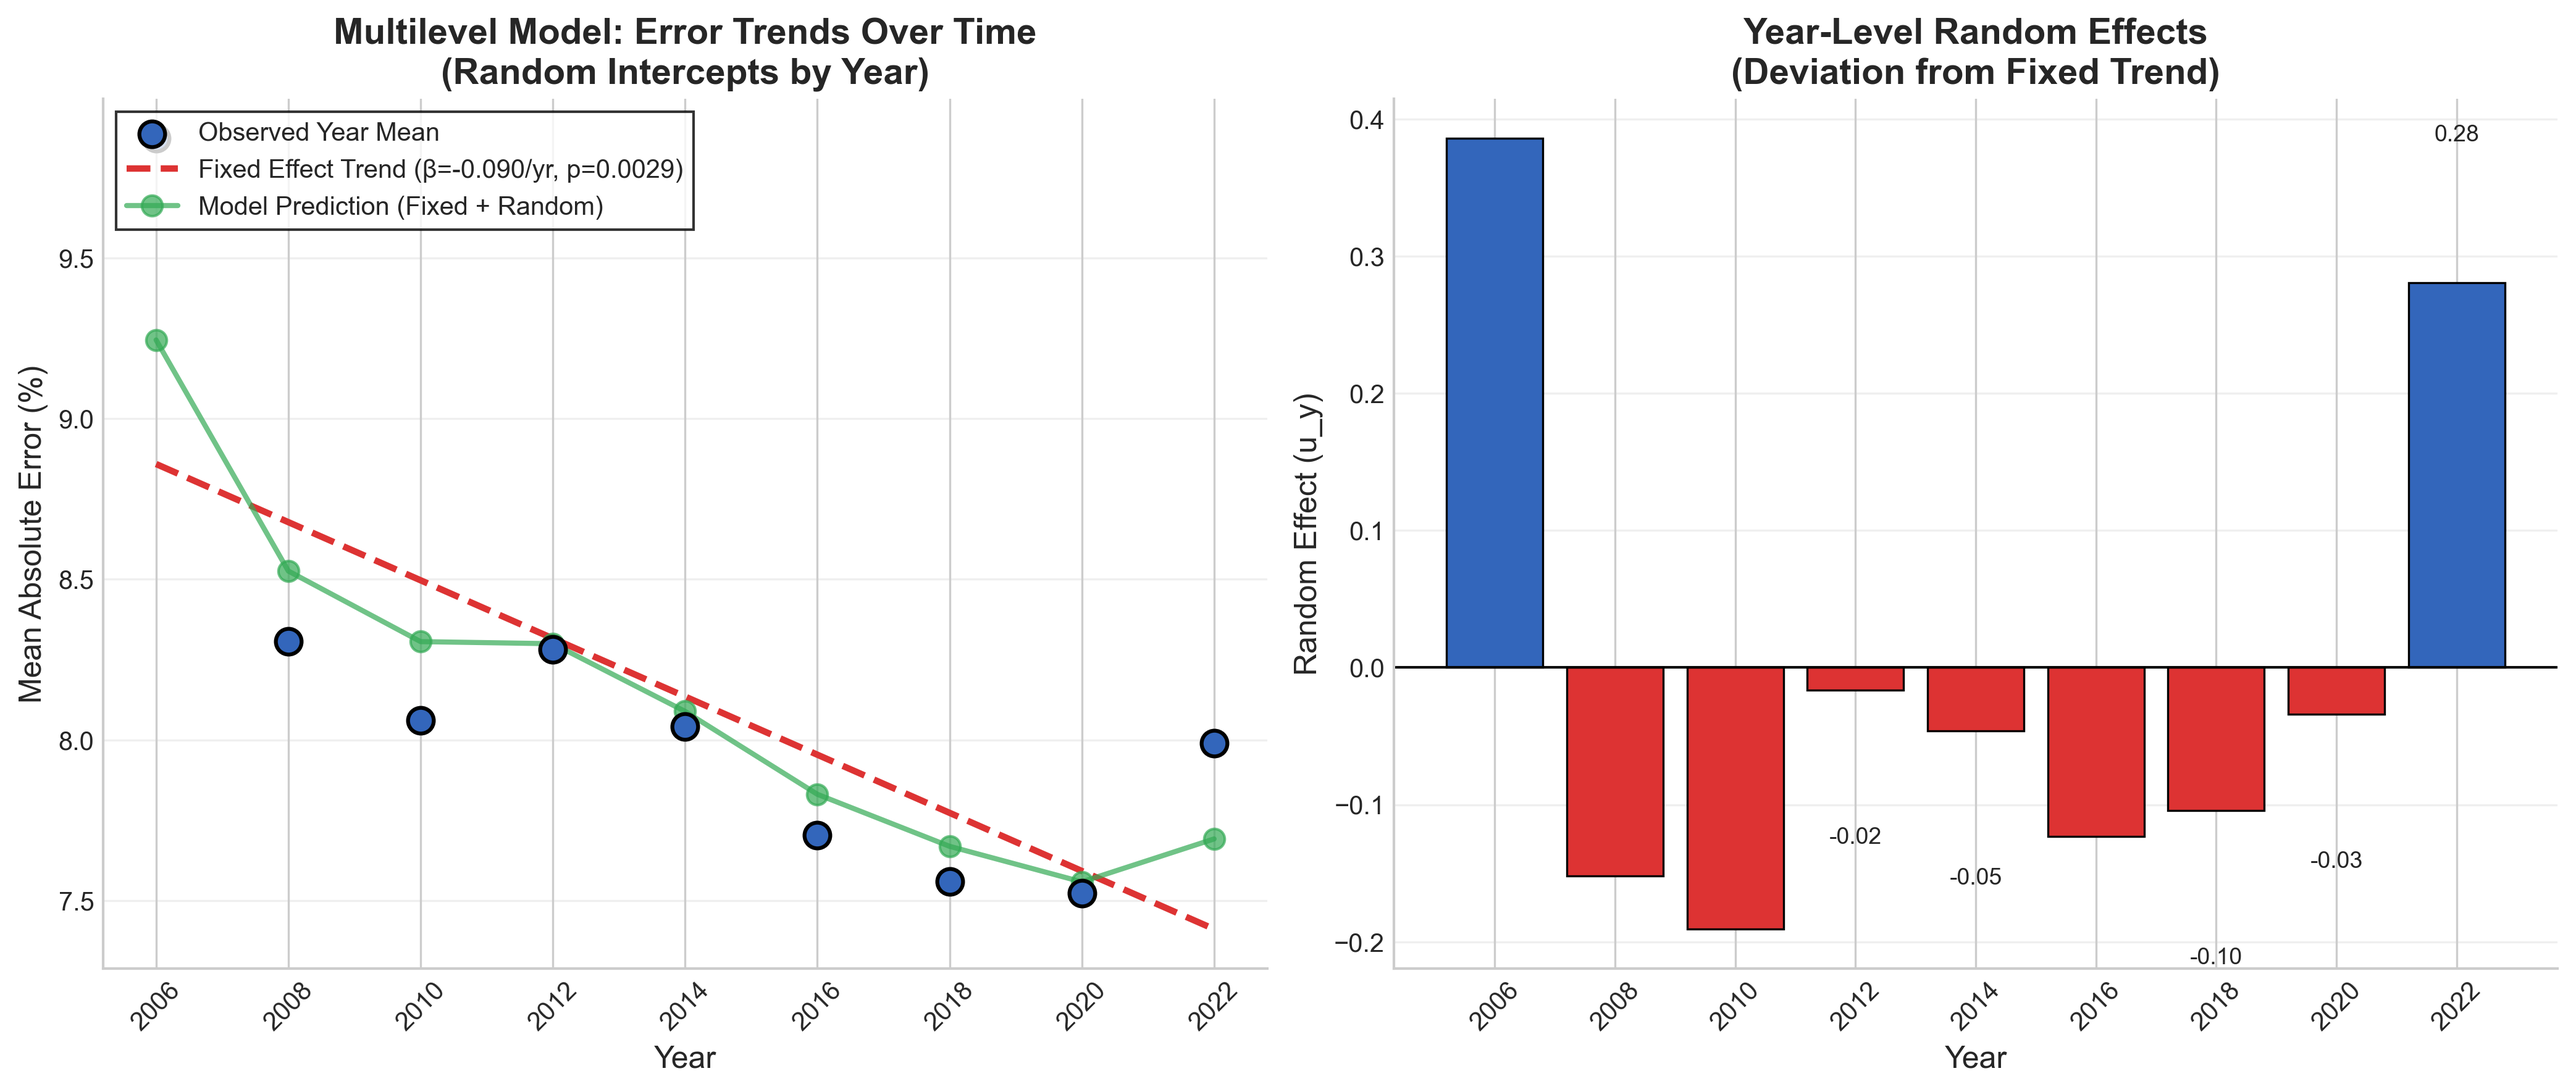
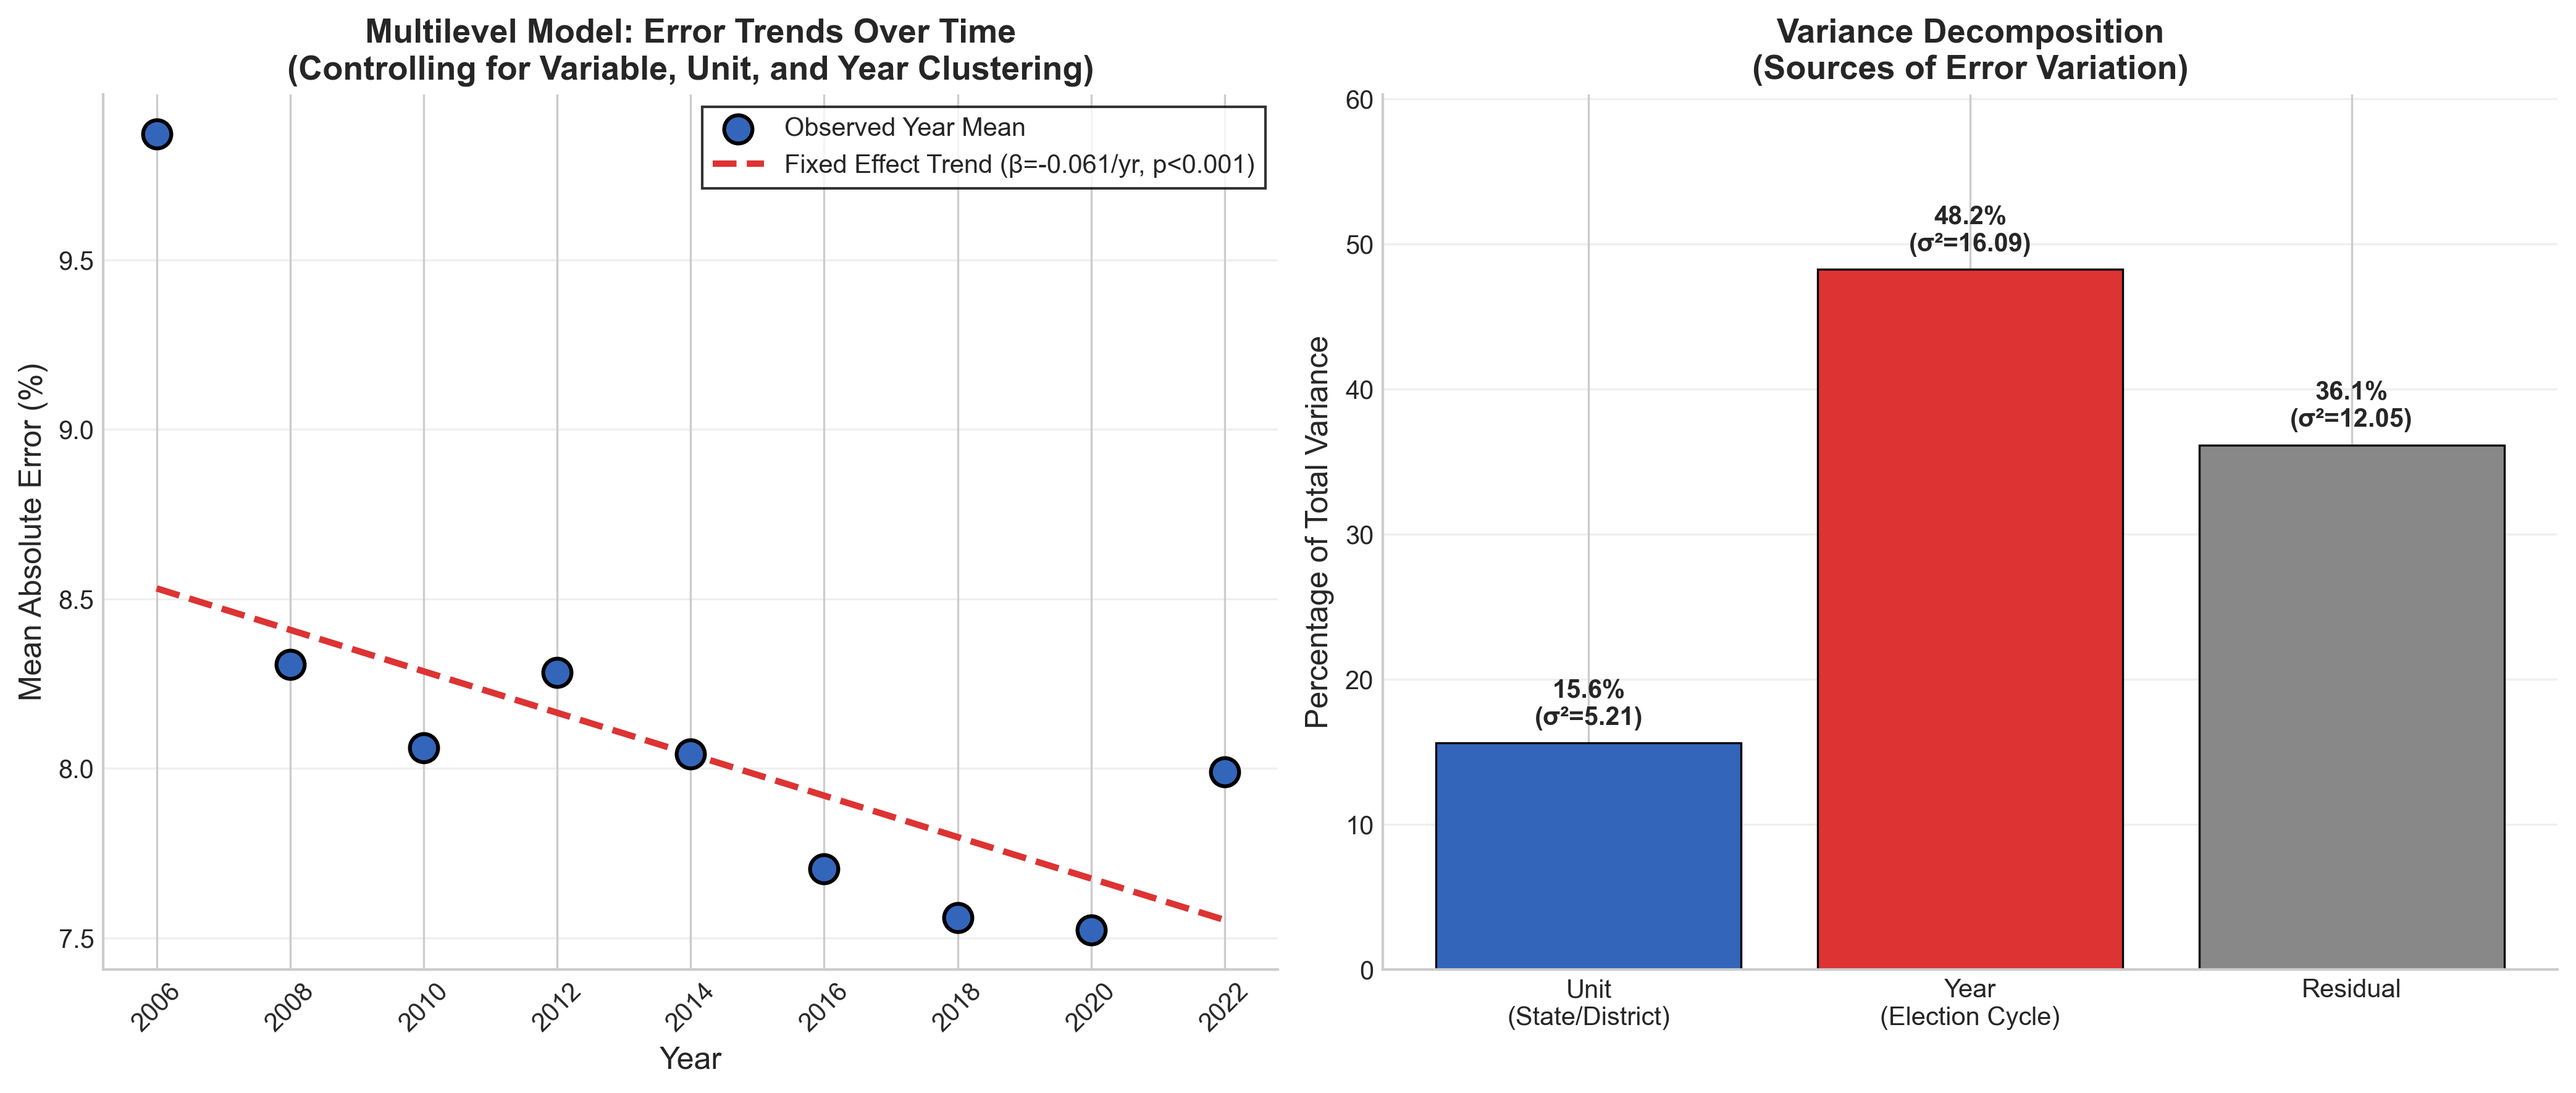
Improve multilevel model with proper unit clustering and variable FE

diff --git a/tables_and_figures/output/rmse_multilevel_trend.tex b/tables_and_figures/output/rmse_multilevel_trend.tex
@@ -9,19 +9,25 @@
 Parameter & Estimate & SE & p-value \\
 \midrule
 \multicolumn{4}{l}{\textit{Fixed Effects}} \\
-\quad Intercept (at 2014) & 8.135 & 0.153 & <0.001* \\
-\quad Year ($\beta$) & -0.090 & 0.030 & 0.003* \\
+\quad Intercept (at 2014) & 3.275 & 0.404 & <0.001* \\
+\quad Year ($\beta$) & -0.0611 & 0.0108 & <0.001* \\
 \midrule
 \multicolumn{4}{l}{\textit{Variance Components}} \\
-\quad Between-year ($\sigma^2_u$) & 0.097 & - & - \\
-\quad Within-year ($\sigma^2_\varepsilon$) & 128.76 & - & - \\
-\quad ICC & 0.001 & - & - \\
+\quad Unit-within-variable ($\sigma^2_{unit}$) & 5.208 & - & - \\
+\quad Year ($\sigma^2_{year}$) & 16.092 & - & - \\
+\quad Residual ($\sigma^2_\varepsilon$) & 12.054 & - & - \\
+\midrule
+\multicolumn{4}{l}{\textit{Variance Decomposition}} \\
+\quad ICC (unit) & 0.156 & - & - \\
+\quad ICC (year) & 0.482 & - & - \\
+\quad Residual & 0.361 & - & - \\
 \bottomrule
 \end{tabular}
 \begin{tablenotes}
 \footnotesize
-\item \textit{Note:} Multilevel model with random intercepts by year. N = 10,437 observations across 9 years.
-\item * indicates p < 0.05
+\item \textit{Note:} Multilevel model: AbsError $\sim$ Year + Variable FE + (1|unit\_var) + (1|Year).
+\item N = 10,437 observations; 1,470 unit-variable combinations; 21 variables; 9 years.
+\item Variable fixed effects included but not shown. * indicates p < 0.05.
 \end{tablenotes}
 \end{threeparttable}
 \end{table}
